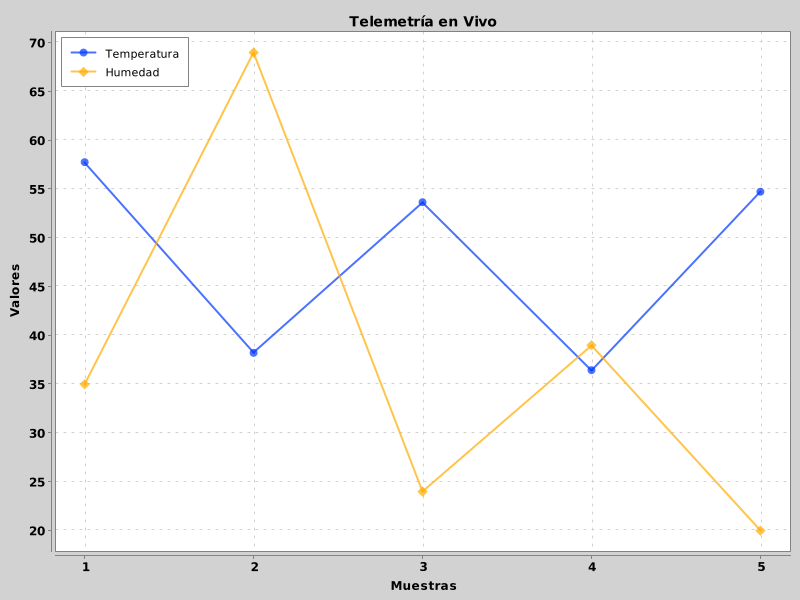
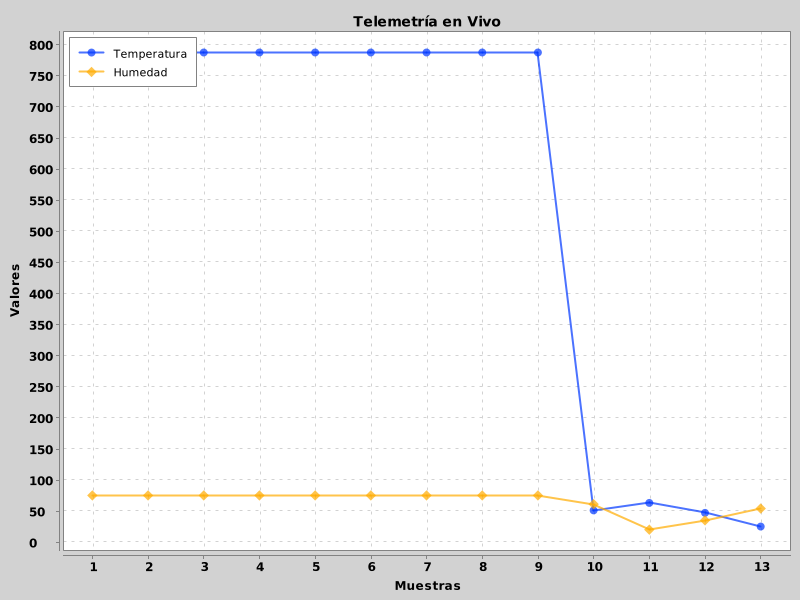
Lab9 Done

diff --git a/src/main/java/firstapp/PayloadCodec.java b/src/main/java/firstapp/PayloadCodec.java
@@ -1,0 +1,78 @@
+package firstapp;
+
+import org.json.JSONObject;
+
+public class PayloadCodec {
+    public static byte[] encode(JSONObject json) {
+        int encodedTemperature = encodeTemperature(json.getDouble("temperatura"));
+        int encodedHumidity = encodeHumidity(json.getInt("humedad"));
+        int encodedWindDirection = encodeWindDirection(json.getString("direccion_viento"));
+
+        int combinedData = (encodedTemperature << 10) | (encodedHumidity << 3) | encodedWindDirection;
+        
+        byte[] byteArray = new byte[3];
+        byteArray[0] = (byte) ((combinedData >> 16) & 0xFF);
+        byteArray[1] = (byte) ((combinedData >> 8) & 0xFF);
+        byteArray[2] = (byte) (combinedData & 0xFF);
+
+        return byteArray;
+    }
+
+    public static JSONObject decode(byte[] byteArray) {
+        
+        int combinedData = ((byteArray[0] & 0xFF) << 16) | ((byteArray[1] & 0xFF) << 8) | (byteArray[2] & 0xFF);
+        
+        int decodedTemperature = decodeTemperature(combinedData >> 10);
+        int decodedHumidity = decodeHumidity((combinedData >> 3) & 0x7F); 
+        String decodedWindDirection = decodeWindDirection(combinedData & 0x7); 
+        
+        return new JSONObject()
+                .put("temperatura", decodedTemperature)
+                .put("humedad", decodedHumidity)
+                .put("direccion_viento", decodedWindDirection);
+    }
+    
+    private static int encodeTemperature(double temperature) {
+        return (int) (temperature * 10);
+    }
+
+    private static int decodeTemperature(int encodedTemperature) {
+        return encodedTemperature / 10;
+    }
+
+    private static int encodeHumidity(int humidity) {
+        return humidity;
+    }
+
+    private static int decodeHumidity(int encodedHumidity) {
+        return encodedHumidity;
+    }
+
+    private static int encodeWindDirection(String windDirection) {
+        switch (windDirection) {
+            case "N": return 0;
+            case "NW": return 1;
+            case "W": return 2;
+            case "SW": return 3;
+            case "S": return 4;
+            case "SE": return 5;
+            case "E": return 6;
+            case "NE": return 7;
+            default: return 0; 
+        }
+    }
+
+    private static String decodeWindDirection(int encodedWindDirection) {
+        switch (encodedWindDirection) {
+            case 0: return "N";
+            case 1: return "NW";
+            case 2: return "W";
+            case 3: return "SW";
+            case 4: return "S";
+            case 5: return "SE";
+            case 6: return "E";
+            case 7: return "NE";
+            default: return "N/A"; 
+        }
+    }
+}

diff --git a/src/main/java/firstapp/ConsumerKafka.java b/src/main/java/firstapp/ConsumerKafka.java
@@ -25,14 +25,14 @@ public class ConsumerKafka {
         props.put(ConsumerConfig.BOOTSTRAP_SERVERS_CONFIG, bootstrapServers);
         props.put(ConsumerConfig.GROUP_ID_CONFIG, "foo2");
         props.put(ConsumerConfig.KEY_DESERIALIZER_CLASS_CONFIG, "org.apache.kafka.common.serialization.StringDeserializer");
-        props.put(ConsumerConfig.VALUE_DESERIALIZER_CLASS_CONFIG, "org.apache.kafka.common.serialization.StringDeserializer");
+        props.put(ConsumerConfig.VALUE_DESERIALIZER_CLASS_CONFIG, "org.apache.kafka.common.serialization.ByteArrayDeserializer");
         return props;
     }
 
     // ? Para correr el programa segun la documentación:
     // mvn clean install exec:java -Dexec.mainClass=firstapp.ConsumerKafka -Djava.awt.headless=true
     public static void main(String[] args) {
-        Consumer<String, String> consumer = new KafkaConsumer<>(getKafkaProperties());
+        Consumer<String, byte[]> consumer = new KafkaConsumer<>(getKafkaProperties());
 
         consumer.subscribe(Arrays.asList(TOPIC));
 
@@ -46,17 +46,16 @@ public class ConsumerKafka {
 
         try {
             while (true) {                
-                ConsumerRecords<String, String> records = consumer.poll(Duration.ofMillis(100));
+                ConsumerRecords<String, byte[]> records = consumer.poll(Duration.ofMillis(100));
                 
                 records.forEach(record -> {
-                    String message = record.value();
-                    JSONObject json = new JSONObject(message);
+                    byte[] encodedData = record.value();
+                    JSONObject json = PayloadCodec.decode(encodedData);
 
                     listTemp.add(json.getDouble("temperatura"));
                     listHume.add(json.getInt("humedad"));
                     listWind.add(json.getString("direccion_viento"));
 
-                    System.out.println("\n===> " + message + "\n");
                     updateChart(chart, listTemp, listHume, listWind);
                 });                                
             }

diff --git a/src/main/java/firstapp/ProducerKafka.java b/src/main/java/firstapp/ProducerKafka.java
@@ -17,20 +17,21 @@ public class ProducerKafka {
         props.put("bootstrap.servers", bootstrapServers);
         props.put("client.id", tenancyName);
         props.put("key.serializer", "org.apache.kafka.common.serialization.StringSerializer");
-        props.put("value.serializer", "org.apache.kafka.common.serialization.StringSerializer");
+        props.put("value.serializer", "org.apache.kafka.common.serialization.ByteArraySerializer");
         return props;
     }
 
     // ? Para correr el programa segun la documentación:
     // mvn clean install exec:java -Dexec.mainClass=firstapp.ProducerKafka
     public static void main(String args[]) {        
-        Producer<String, String> producer = new KafkaProducer<>(getKafkaProperties());
+        Producer<String, byte[]> producer = new KafkaProducer<>(getKafkaProperties());
 
         try {
             while (true) {
                 JSONObject data = Sensors.generateJsonData();
+                byte[] encodedData = PayloadCodec.encode(data);
                 String key = "sensor1";
-                producer.send(new ProducerRecord<>(TOPIC, key, data.toString()));                
+                producer.send(new ProducerRecord<>(TOPIC, key, encodedData));
                 Thread.sleep(Sensors.randomIntNumber(15000, 30000));
             }
         } catch (InterruptedException e) {
